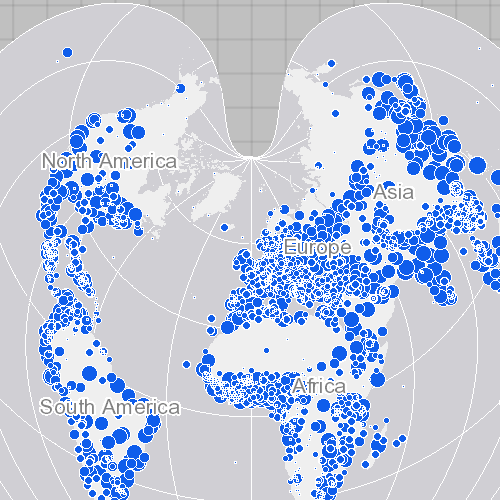
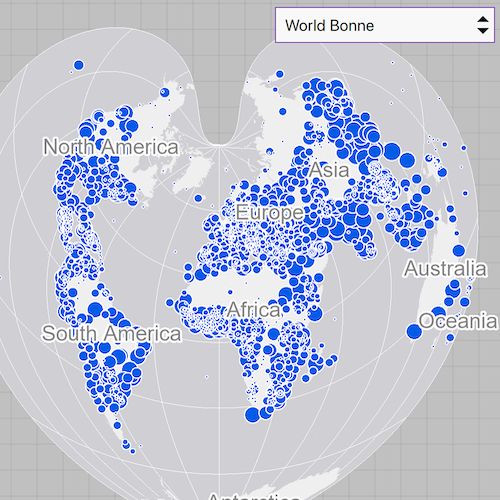
Initial changes.

diff --git a/CppSamples/Maps/SetMapSpatialReference/SetMapSpatialReference.qml b/CppSamples/Maps/SetMapSpatialReference/SetMapSpatialReference.qml
@@ -19,6 +19,7 @@ import QtQuick.Controls
 import Esri.Samples
 
 SetMapSpatialReferenceSample {
+    id: srSample
     width: 800
     height: 600
 
@@ -31,5 +32,17 @@ SetMapSpatialReferenceSample {
             // Set the focus on MapView to initially enable keyboard navigation
             forceActiveFocus();
         }
+    }
+    ComboBox {
+        id: srComboBox
+        anchors {
+            top: parent.top
+            right: parent.right
+            margins: 10
+        }
+        width: 220
+        model: srSample.spatialReferenceNames
+        currentIndex: 6
+        onActivated: srSample.setSpatialReference(currentIndex)
     }
 }

diff --git a/CppSamples/Maps/SetMapSpatialReference/SetMapSpatialReference.h b/CppSamples/Maps/SetMapSpatialReference/SetMapSpatialReference.h
@@ -31,6 +31,7 @@ namespace Esri::ArcGISRuntime
 class SetMapSpatialReference : public QQuickItem
 {
   Q_OBJECT
+  Q_PROPERTY(QStringList spatialReferenceNames READ spatialReferenceNames CONSTANT)
 
 public:
   explicit SetMapSpatialReference(QQuickItem* parent = nullptr);
@@ -39,11 +40,28 @@ public:
   void componentComplete() override;
   static void init();
 
+  QStringList spatialReferenceNames() const;
+
+public slots:
+  void setSpatialReference(int index);
+
 private:
   Esri::ArcGISRuntime::Map* m_map = nullptr;
   Esri::ArcGISRuntime::MapQuickView* m_mapView = nullptr;
   Esri::ArcGISRuntime::Basemap* m_basemap = nullptr;
   Esri::ArcGISRuntime::ArcGISMapImageLayer* m_imageLayer = nullptr;
+
+  const QList<QPair<QString, int>> m_srOptions = {{"Berghaus Star AAG", 102299},
+                                                  {"Fuller", 54050},
+                                                  {"New Zealand Map Grid", 27200},
+                                                  {"North Pole Stereographic", 102018},
+                                                  {"Peirce Quincuncial", 54090},
+                                                  {"UTM Zone 10 N", 32610},
+                                                  {"World Bonne", 54024},
+                                                  {"World Goode Homolosine", 54052},
+                                                  {"World Orthographic", 102038},
+                                                  {"Web Mercator", 3857},
+                                                  {"WGS 84", 4326}};
 };
 
 #endif // SET_MAP_SPATIAL_REFERENCE_H

diff --git a/CppSamples/Maps/SetMapSpatialReference/SetMapSpatialReference.cpp b/CppSamples/Maps/SetMapSpatialReference/SetMapSpatialReference.cpp
@@ -72,3 +72,22 @@ void SetMapSpatialReference::componentComplete()
   // set map on the map view
   m_mapView->setMap(m_map);
 }
+
+QStringList SetMapSpatialReference::spatialReferenceNames() const
+{
+  QStringList names;
+  for (const auto& option : m_srOptions)
+  {
+    names << option.first;
+  }
+  return names;
+}
+
+void SetMapSpatialReference::setSpatialReference(int index)
+{
+  if (index < 0 || index >= m_srOptions.size())
+  {
+    return;
+  }
+  m_map->setSpatialReference(SpatialReference(m_srOptions[index].second));
+}

diff --git a/CppSamples/Maps/SetMapSpatialReference/README.md b/CppSamples/Maps/SetMapSpatialReference/README.md
@@ -10,7 +10,7 @@ Choosing the correct spatial reference is important for ensuring accurate projec
 
 ## How to use the sample
 
-Pan and zoom around the map. Observe how the map is displayed using the World Bonne spatial reference.
+Pan and zoom around the map. Observe how the map is displayed in the World Bonne spatial reference. Pick a different spatial reference and see the map reproject.
 
 ## How it works
 
@@ -18,8 +18,9 @@ Pan and zoom around the map. Observe how the map is displayed using the World Bo
 2. Create a `Basemap` object using an `ArcGISMapImageLayer` object.
 3. Set the base map to the map.
 4. Set the map to a `MapView` object.
+5. Change the map's spatial reference using `setSpatialReference` method.
 
-The ArcGIS map image layer will now use the spatial reference set to the ArcGIS map (World Bonne (WKID: 54024)) and not it's default spatial reference.
+The ArcGIS map image layer will reproject into the spatial reference set to the map (such as World Bonne (WKID: 54024)), and not the map service's default spatial reference.
 
 ## Relevant API
 
@@ -31,8 +32,14 @@ The ArcGIS map image layer will now use the spatial reference set to the ArcGIS 
 
 ## Additional information
 
-Operational layers will automatically project to this spatial reference when possible.
+Operational layers will automatically project to this spatial reference when possible. There are 3 kinds of layer reprojection behaviors:
+
+- Reprojected on device (on-the-fly reprojection), such as a `FeatureLayer` created from a mobile geodatabase
+- Reprojected from the service, such as an `ArcGISMapImageLayer`
+- Not able to reproject, such as an `ArcGISTiledLayer` with defined spatial reference in its tile cache. These layer might be able to reproject in a future update
+
+For more information, check out the API reference doc for `setSpatialReference` method.
 
 ## Tags
 
-project, WKID
+coordinate system, project, projection, spatial reference, Web Mercator, WGS84, WKID
